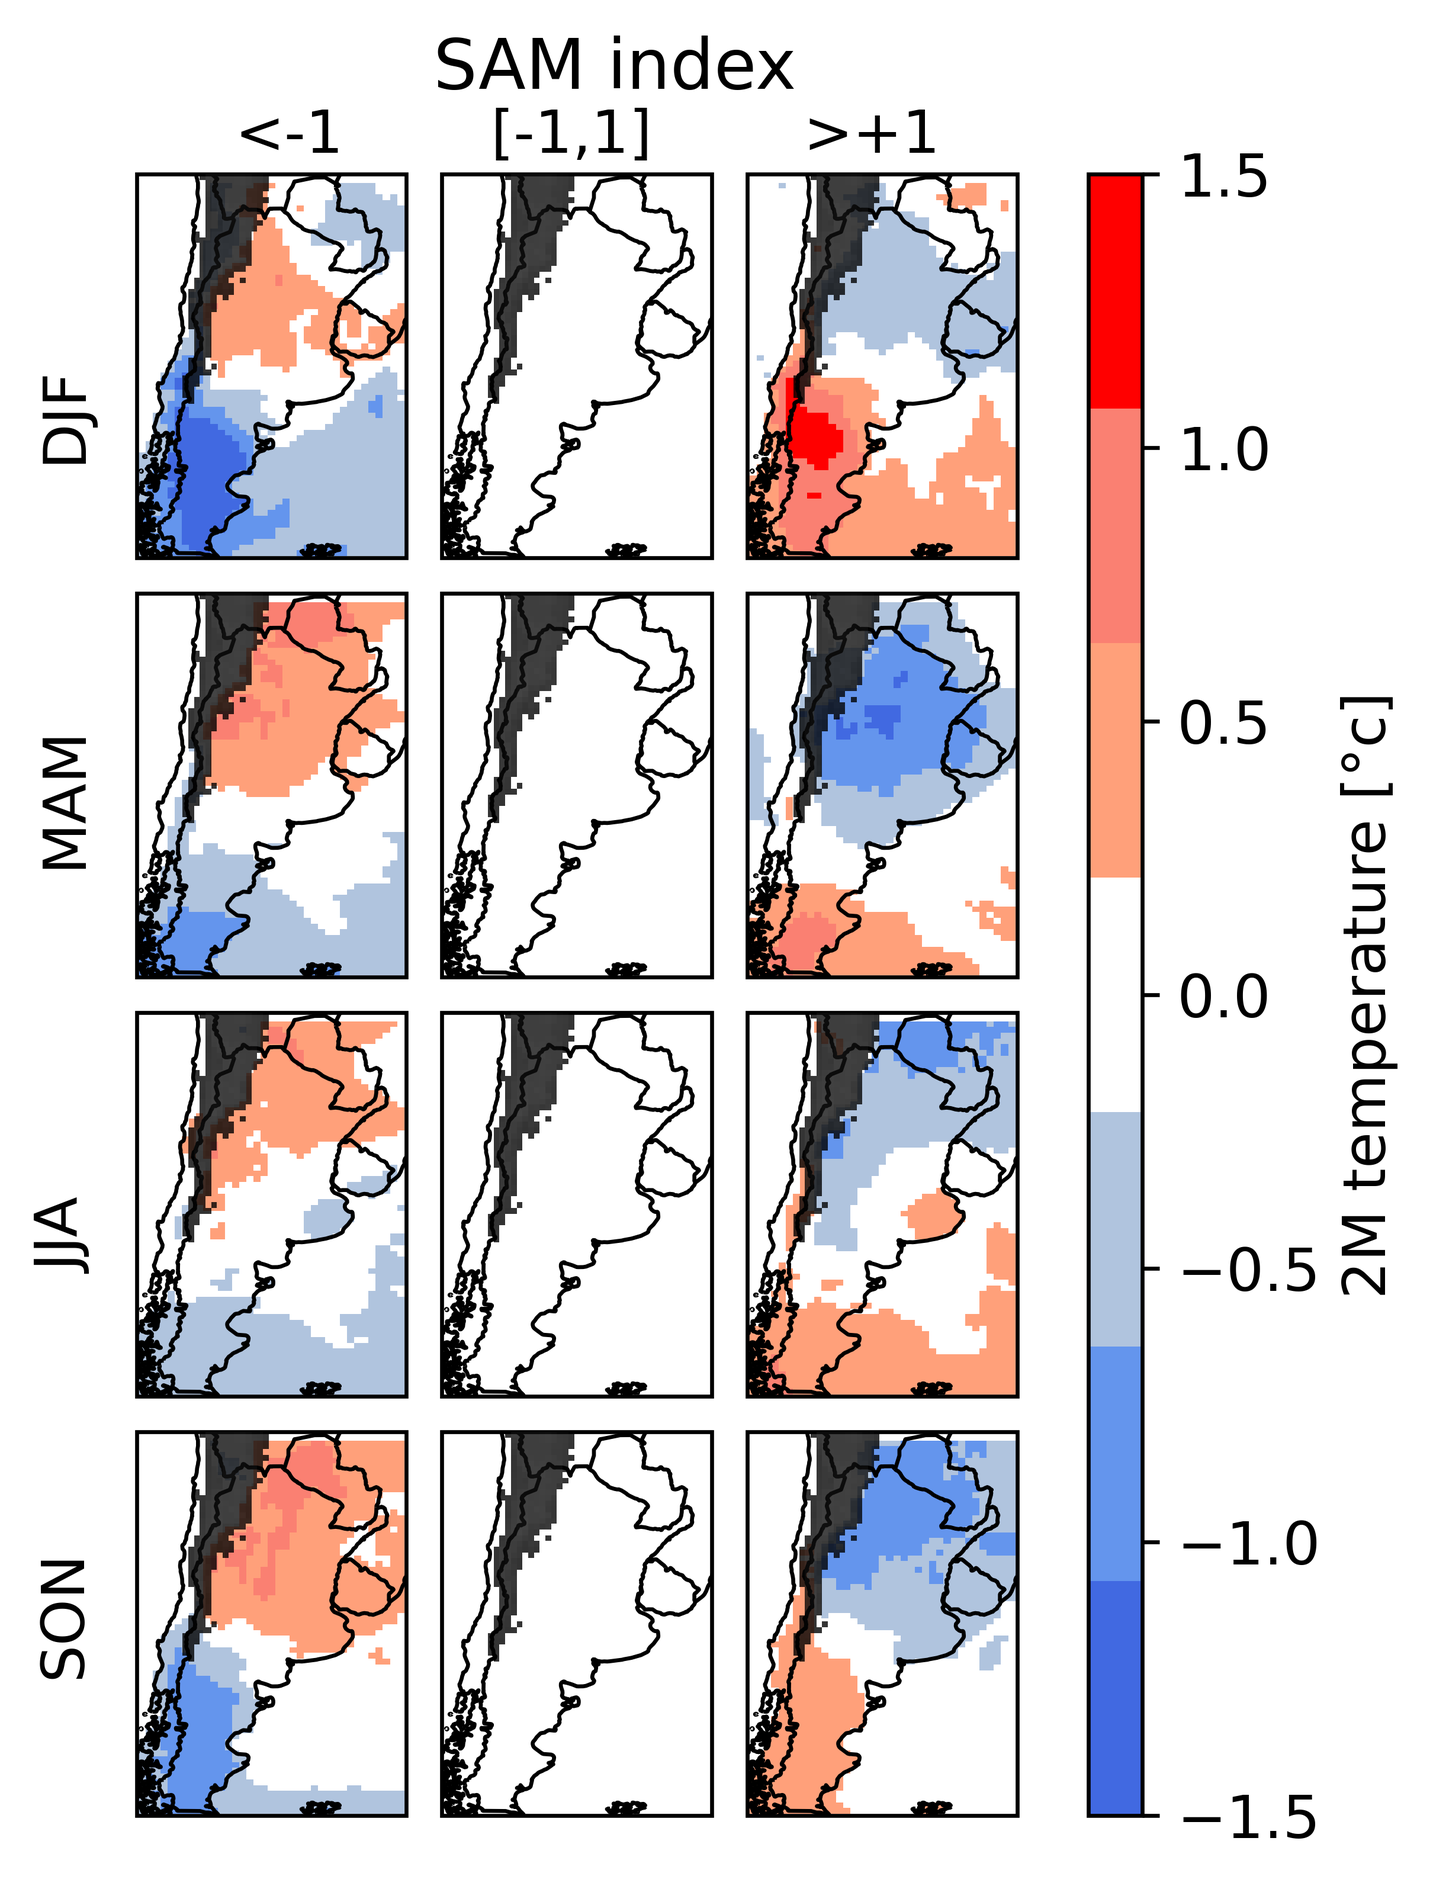
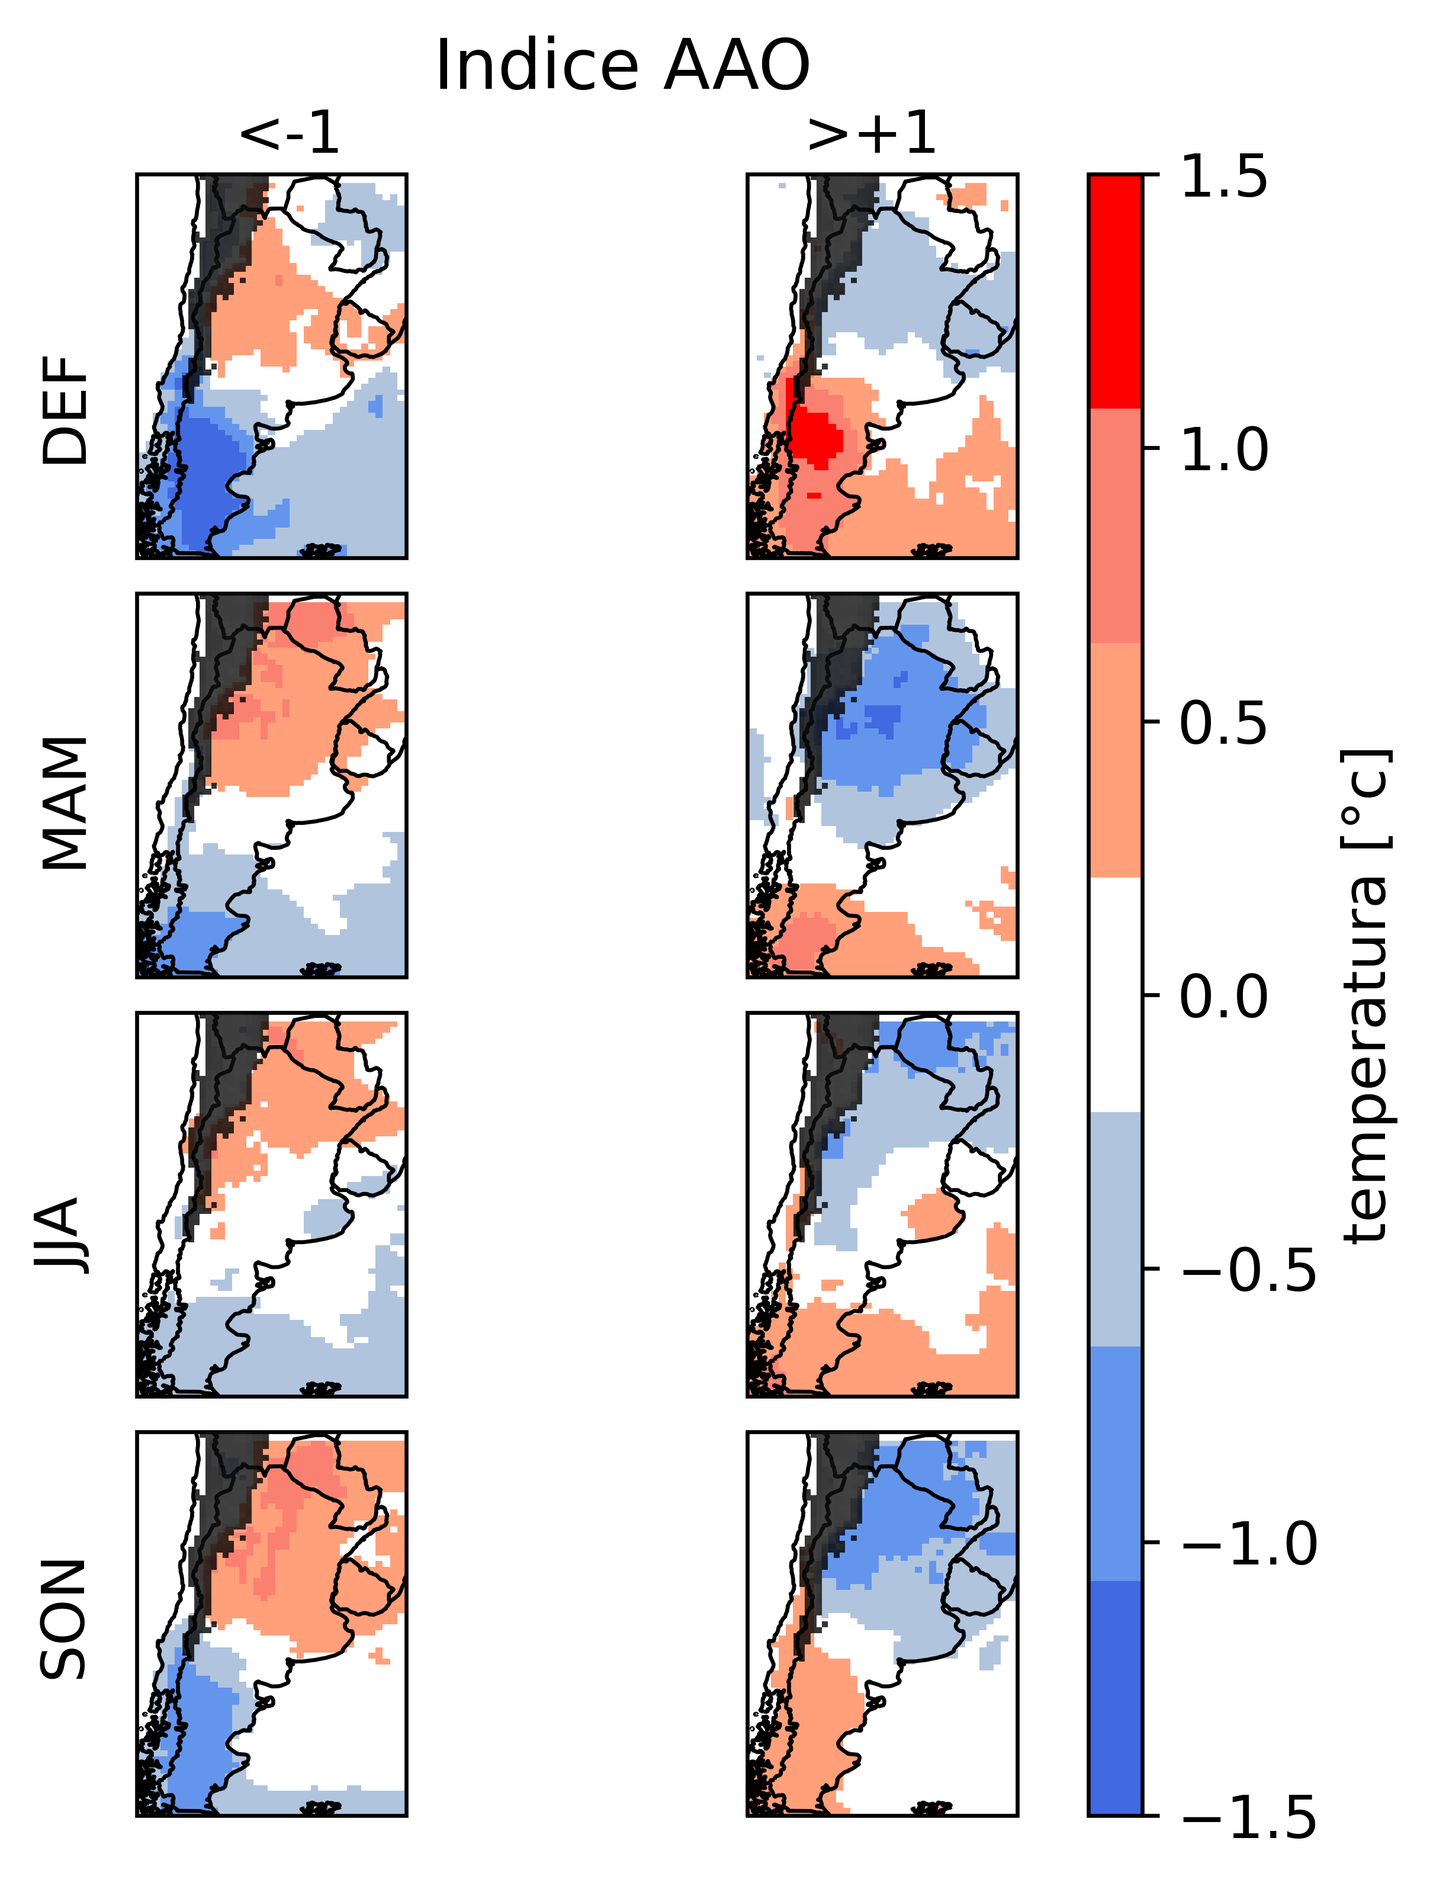
20/11

diff --git a/python/num_casos.py b/python/num_casos.py
@@ -1,0 +1,195 @@
+import numpy as N
+import matplotlib.pyplot as plt
+from datetime import datetime
+import pandas as pd
+from scipy.signal import detrend
+
+#################################
+#######VIENTO####################
+#################################
+
+Vuru = pd.read_csv('/home/emi/Documents/MJO/datos/series viento-sol/uru-vie-agrup.csv', header=None, delimiter=',', na_values='-99')
+Varg = pd.read_csv('/home/emi/Documents/MJO/datos/series viento-sol/arg-vie-agrup.csv', header=None, delimiter=',', na_values='-99')
+Vchi = pd.read_csv('/home/emi/Documents/MJO/datos/series viento-sol/chi-vie-agrup.csv', header=None, delimiter=',', na_values='-99')
+
+Vuru_cruda = pd.read_csv('/home/emi/Documents/MJO/datos/series viento-sol/uru-vie.txt', header=None, delimiter=';', na_values='-99')
+Varg_cruda = pd.read_csv('/home/emi/Documents/MJO/datos/series viento-sol/arg-vie.txt', header=None, delimiter=';', na_values='-99')
+Vchi_cruda = pd.read_csv('/home/emi/Documents/MJO/datos/series viento-sol/chi-vie.txt', header=None, delimiter=';', na_values='-99')
+
+Vmad = pd.read_csv('/home/emi/Documents/MJO/datos/mjo/WH.txt', header=None, delimiter=',', na_values='-99') ### year, month, day, day of week, RMM1, RMM2, phase, amplitude
+fmo = pd.read_csv('/home/emi/Documents/MJO/datos/mjo/filtered.txt', header=None, delimiter=',', na_values='-99') ### year, month, day, day of week, RMM1, RMM2, phase, amplitude
+
+series = pd.DataFrame()
+# cargamos mes, para despues filtrar por estacion
+series[0] = Vmad[1]
+# cargamos fase
+series[1] = Vmad[6]
+# cargamos dia de la semana, para cuando trabajemos con demanda
+series[2] = Vmad[3]
+#  cargamos amplitud, para quedarnos con MJO activas
+series[3] = Vmad[7]
+# series uruguay argentina chile
+series[4] = Vuru[1]
+series[5] = Varg[1]
+series[6] = Vchi[1]
+series[7] = fmo[7]
+
+
+# nos quedamos con MJO activos, esto es cuando la amplitud WH es >= 1
+seriesWH = series.loc[series[3] > 1]
+
+# VERANO
+veranoWH = seriesWH.loc[(seriesWH[0] == 1) | (seriesWH[0] == 2) | (seriesWH[0] == 12)]
+Vf1v = veranoWH.loc[veranoWH[1] == 1]
+Vf2v = veranoWH.loc[veranoWH[1] == 2]
+Vf3v = veranoWH.loc[veranoWH[1] == 3]
+Vf4v = veranoWH.loc[veranoWH[1] == 4]
+Vf5v = veranoWH.loc[veranoWH[1] == 5]
+Vf6v = veranoWH.loc[veranoWH[1] == 6]
+Vf7v = veranoWH.loc[veranoWH[1] == 7]
+Vf8v = veranoWH.loc[veranoWH[1] == 8]
+
+# OTOÑO
+otonoWH = seriesWH.loc[(seriesWH[0] == 3) | (seriesWH[0] == 4) | (seriesWH[0] == 5)]
+Vf1o = otonoWH.loc[otonoWH[1] == 1]
+Vf2o = otonoWH.loc[otonoWH[1] == 2]
+Vf3o = otonoWH.loc[otonoWH[1] == 3]
+Vf4o = otonoWH.loc[otonoWH[1] == 4]
+Vf5o = otonoWH.loc[otonoWH[1] == 5]
+Vf6o = otonoWH.loc[otonoWH[1] == 6]
+Vf7o = otonoWH.loc[otonoWH[1] == 7]
+Vf8o = otonoWH.loc[otonoWH[1] == 8]
+
+# INVIERNO
+inviernoWH = seriesWH.loc[(seriesWH[0] == 6) | (seriesWH[0] == 7) | (seriesWH[0] == 8)]
+Vf1i = inviernoWH.loc[inviernoWH[1] == 1]
+Vf2i = inviernoWH.loc[inviernoWH[1] == 2]
+Vf3i = inviernoWH.loc[inviernoWH[1] == 3]
+Vf4i = inviernoWH.loc[inviernoWH[1] == 4]
+Vf5i = inviernoWH.loc[inviernoWH[1] == 5]
+Vf6i = inviernoWH.loc[inviernoWH[1] == 6]
+Vf7i = inviernoWH.loc[inviernoWH[1] == 7]
+Vf8i = inviernoWH.loc[inviernoWH[1] == 8]
+
+# primavera
+primaveraWH = seriesWH.loc[(seriesWH[0] == 9) | (seriesWH[0] == 10) | (seriesWH[0] == 11)]
+Vf1p = primaveraWH.loc[primaveraWH[1] == 1]
+Vf2p = primaveraWH.loc[primaveraWH[1] == 2]
+Vf3p = primaveraWH.loc[primaveraWH[1] == 3]
+Vf4p = primaveraWH.loc[primaveraWH[1] == 4]
+Vf5p = primaveraWH.loc[primaveraWH[1] == 5]
+Vf6p = primaveraWH.loc[primaveraWH[1] == 6]
+Vf7p = primaveraWH.loc[primaveraWH[1] == 7]
+Vf8p = primaveraWH.loc[primaveraWH[1] == 8]
+
+verwh = [len(Vf1v),len(Vf2v),len(Vf3v),len(Vf4v),len(Vf5v),len(Vf6v),len(Vf7v),len(Vf8v)]
+otowh = [len(Vf1o),len(Vf2o),len(Vf3o),len(Vf4o),len(Vf5o),len(Vf6o),len(Vf7o),len(Vf8o)]
+invwh = [len(Vf1i),len(Vf2i),len(Vf3i),len(Vf4i),len(Vf5i),len(Vf6i),len(Vf7i),len(Vf8i)]
+priwh = [len(Vf1p),len(Vf2p),len(Vf3p),len(Vf4p),len(Vf5p),len(Vf6p),len(Vf7p),len(Vf8p)]
+
+# nos quedamos con MJO activos, esto es cuando la amplitud fmo es >= 1
+seriesFMO = series.loc[series[7] > 1]
+
+# VERANO
+veranoFMO = seriesFMO.loc[(seriesFMO[0] == 1) | (seriesFMO[0] == 2) | (seriesFMO[0] == 12)]
+V1v = veranoFMO.loc[veranoFMO[1] == 1]
+V2v = veranoFMO.loc[veranoFMO[1] == 2]
+V3v = veranoFMO.loc[veranoFMO[1] == 3]
+V4v = veranoFMO.loc[veranoFMO[1] == 4]
+V5v = veranoFMO.loc[veranoFMO[1] == 5]
+V6v = veranoFMO.loc[veranoFMO[1] == 6]
+V7v = veranoFMO.loc[veranoFMO[1] == 7]
+V8v = veranoFMO.loc[veranoFMO[1] == 8]
+
+# OTOÑO
+otonoFMO = seriesFMO.loc[(seriesFMO[0] == 3) | (seriesFMO[0] == 4) | (seriesFMO[0] == 5)]
+V1o = otonoFMO.loc[otonoFMO[1] == 1]
+V2o = otonoFMO.loc[otonoFMO[1] == 2]
+V3o = otonoFMO.loc[otonoFMO[1] == 3]
+V4o = otonoFMO.loc[otonoFMO[1] == 4]
+V5o = otonoFMO.loc[otonoFMO[1] == 5]
+V6o = otonoFMO.loc[otonoFMO[1] == 6]
+V7o = otonoFMO.loc[otonoFMO[1] == 7]
+V8o = otonoFMO.loc[otonoFMO[1] == 8]
+
+# INVIERNO
+inviernoFMO = seriesFMO.loc[(seriesFMO[0] == 6) | (seriesFMO[0] == 7) | (seriesFMO[0] == 8)]
+V1i = inviernoFMO.loc[inviernoFMO[1] == 1]
+V2i = inviernoFMO.loc[inviernoFMO[1] == 2]
+V3i = inviernoFMO.loc[inviernoFMO[1] == 3]
+V4i = inviernoFMO.loc[inviernoFMO[1] == 4]
+V5i = inviernoFMO.loc[inviernoFMO[1] == 5]
+V6i = inviernoFMO.loc[inviernoFMO[1] == 6]
+V7i = inviernoFMO.loc[inviernoFMO[1] == 7]
+V8i = inviernoFMO.loc[inviernoFMO[1] == 8]
+
+# primavera
+primaveraFMO = seriesFMO.loc[(seriesFMO[0] == 9) | (seriesFMO[0] == 10) | (seriesFMO[0] == 11)]
+V1p = primaveraFMO.loc[primaveraFMO[1] == 1]
+V2p = primaveraFMO.loc[primaveraFMO[1] == 2]
+V3p = primaveraFMO.loc[primaveraFMO[1] == 3]
+V4p = primaveraFMO.loc[primaveraFMO[1] == 4]
+V5p = primaveraFMO.loc[primaveraFMO[1] == 5]
+V6p = primaveraFMO.loc[primaveraFMO[1] == 6]
+V7p = primaveraFMO.loc[primaveraFMO[1] == 7]
+V8p = primaveraFMO.loc[primaveraFMO[1] == 8]
+
+verfmo = [len(V1v),len(V2v),len(V3v),len(V4v),len(V5v),len(V6v),len(V7v),len(V8v)]
+otofmo = [len(V1o),len(V2o),len(V3o),len(V4o),len(V5o),len(V6o),len(V7o),len(V8o)]
+invfmo = [len(V1i),len(V2i),len(V3i),len(V4i),len(V5i),len(V6i),len(V7i),len(V8i)]
+prifmo = [len(V1p),len(V2p),len(V3p),len(V4p),len(V5p),len(V6p),len(V7p),len(V8p)]
+
+X = [1,2,3,4,5,6,7,8]
+
+fig, ((ax1,ax2,ax3,ax4),(ax5,ax6,ax7,ax8)) = plt.subplots(2, 4,figsize=(6.75,3), sharey= True, sharex=True)
+
+ax1.set_title('DJF  ', fontsize=13, weight='bold')
+ax1.bar(X, verwh, alpha = 1)
+ax1.tick_params(labelsize=14)
+ax1.set_yticks([100,200,300], ['100','200','300'])
+ax1.xaxis.set_tick_params(length=0)
+
+ax2.set_title('MAM  ', fontsize=13, weight='bold')
+ax2.bar(X, otowh, alpha = 1)
+ax2.tick_params(labelsize=14)
+ax2.xaxis.set_tick_params(length=0)
+ax2.yaxis.set_tick_params(length=0)
+
+ax3.set_title('JJA  ', fontsize=13, weight='bold')
+ax3.bar(X, invwh, alpha = 1)
+ax3.tick_params(labelsize=14)
+ax3.xaxis.set_tick_params(length=0)
+ax3.yaxis.set_tick_params(length=0)
+
+ax4.set_title('SON  ', fontsize=13, weight='bold')
+ax4.bar(X, priwh, alpha = 1)
+ax4.tick_params(labelsize=14)
+ax4.xaxis.set_tick_params(length=0)
+ax4.yaxis.set_tick_params(length=0)
+
+ax5.bar(X, verfmo, alpha = 1)
+ax5.tick_params(labelsize=14)
+ax5.set_xticks([1,2,3,4,5,6,7,8], ['1','2','3','4','5','6','7','8'])
+ax5.set_yticks([100,200,300], ['100','200','300'])
+
+ax6.bar(X, otofmo, alpha = 1)
+ax6.tick_params(labelsize=14)
+ax6.set_xticks([1,2,3,4,5,6,7,8], ['1','2','3','4','5','6','7','8'])
+ax6.yaxis.set_tick_params(length=0)
+
+ax7.bar(X, invfmo, alpha = 1)
+ax7.tick_params(labelsize=14)
+ax7.set_xticks([1,2,3,4,5,6,7,8], ['1','2','3','4','5','6','7','8'])
+ax7.yaxis.set_tick_params(length=0)
+
+ax8.bar(X, prifmo, alpha = 1)
+ax8.tick_params(labelsize=14)
+ax8.set_xticks([1,2,3,4,5,6,7,8], ['1','2','3','4','5','6','7','8'])
+ax8.yaxis.set_tick_params(length=0)
+
+fig.text(0.01, 0.42, '# cases', fontsize=14, rotation='vertical')
+fig.text(0.91, 0.62, 'W&H', fontsize=14, rotation='vertical')
+fig.text(0.91, 0.24, 'FMO', fontsize=14, rotation='vertical')
+fig.text(0.45, -0.05, 'MJO phase', fontsize=14)
+fig.subplots_adjust(wspace=0.08,hspace=0.08)
+plt.savefig('/home/emi/Dropbox/DTEC/MJO/imagenes/casos.png',bbox_inches="tight", dpi=600)

diff --git a/merra_aao/mapas_aao_t_2.py b/merra_aao/mapas_aao_t_2.py
@@ -1,0 +1,104 @@
+import numpy as np
+import matplotlib.pyplot as plt
+import pandas as pd
+import cartopy.crs as ccrs
+from cartopy.mpl.geoaxes import GeoAxes
+import cartopy.feature as feature
+from mpl_toolkits.axes_grid1 import AxesGrid
+import numpy.ma as ma
+import xarray as xr
+import matplotlib as mpl
+from netCDF4 import Dataset
+
+
+elevat = '/home/emi/Documents/vientohidro2/datos/elev.0.5-deg.nc'
+archivo8 = Dataset(elevat, mode ='r')
+lons_ele = archivo8.variables['lon'][:]
+lats_ele = archivo8.variables['lat'][:]
+lons_ele = lons_ele - 180
+elev = archivo8.variables['data'][:]
+elev = ma.masked_where(elev < 1500, elev)
+
+########   uso AxesGrid  (rompe los huevos con el axes_class)
+# ~ projection = ccrs.PlateCarree()
+# ~ axes_class = (GeoAxes,
+                    # ~ dict(projection=projection))
+# ~ fig = plt.figure(1,(8,6))
+# ~ axes = AxesGrid(fig, 111, axes_class=axes_class,
+                    # ~ nrows_ncols=(4, 3),
+                    # ~ axes_pad=0.1,
+                    # ~ cbar_location='right',
+                    # ~ cbar_mode='single',
+                    # ~ cbar_pad=0.2,
+                    # ~ cbar_size='5%',
+                    # ~ share_all=True,
+                    # ~ label_mode='keep')
+
+ds = xr.open_dataset('data/T2M_composite_aao.nc')
+ds1 = xr.open_dataset('data/SLP_composite_aao.nc')
+
+cmap = (mpl.colors.ListedColormap(['royalblue', 'cornflowerblue', 'lightsteelblue', 'white','lightsalmon' , 'salmon' ,'red' ])
+        .with_extremes(over='darkred', under='darkblue'))
+bounds = [1.5, 1, 0.5, 0.0, 0.5, 1, 1.5]
+norm = mpl.colors.BoundaryNorm(bounds, cmap.N)
+
+fig, ((ax1,ax2,ax3,ax4),(ax5,ax6,ax7,ax8)) = plt.subplots(2, 4, figsize=(6,4), subplot_kw={'projection': ccrs.PlateCarree()})
+
+im = ax1.pcolormesh(ds['lon'].data, ds['lat'].data, ds['T2M2DJF'].data, cmap = cmap, vmin= -1.5, vmax=1.5 , transform=ccrs.PlateCarree())
+ax1.add_feature(feature.BORDERS,linewidth=1.1)
+ax1.add_feature(feature.COASTLINE,linewidth=1.1)
+ax1.set_title('DEF', fontsize=12)
+
+im = ax2.pcolormesh(ds['lon'].data, ds['lat'].data, ds['T2M2MAM'].data, cmap = cmap, vmin= -1.5, vmax=1.5 , transform=ccrs.PlateCarree())
+ax2.add_feature(feature.BORDERS,linewidth=1.1)
+ax2.add_feature(feature.COASTLINE,linewidth=1.1)
+ax2.set_title('MAM', fontsize=12)
+
+im = ax3.pcolormesh(ds['lon'].data, ds['lat'].data, ds['T2M2JJA'].data, cmap = cmap, vmin= -1.5, vmax=1.5 , transform=ccrs.PlateCarree())
+ax3.add_feature(feature.BORDERS,linewidth=1.1)
+ax3.add_feature(feature.COASTLINE,linewidth=1.1)
+ax3.set_title('JJA', fontsize=12)
+
+im = ax4.pcolormesh(ds['lon'].data, ds['lat'].data, ds['T2M2SON'].data, cmap = cmap, vmin= -1.5, vmax=1.5 , transform=ccrs.PlateCarree())
+ax4.add_feature(feature.BORDERS,linewidth=1.1)
+ax4.add_feature(feature.COASTLINE,linewidth=1.1)
+ax4.set_title('SON', fontsize=12)
+
+im = ax5.pcolormesh(ds['lon'].data, ds['lat'].data, ds['T2M0DJF'].data, cmap = cmap, vmin= -1.5, vmax=1.5 , transform=ccrs.PlateCarree())
+ax5.add_feature(feature.BORDERS,linewidth=1.1)
+ax5.add_feature(feature.COASTLINE,linewidth=1.1)
+
+im = ax6.pcolormesh(ds['lon'].data, ds['lat'].data, ds['T2M0MAM'].data, cmap = cmap, vmin= -1.5, vmax=1.5 , transform=ccrs.PlateCarree())
+ax6.add_feature(feature.BORDERS,linewidth=1.1)
+ax6.add_feature(feature.COASTLINE,linewidth=1.1)
+
+im = ax7.pcolormesh(ds['lon'].data, ds['lat'].data, ds['T2M0JJA'].data, cmap = cmap, vmin= -1.5, vmax=1.5 , transform=ccrs.PlateCarree())
+ax7.add_feature(feature.BORDERS,linewidth=1.1)
+ax7.add_feature(feature.COASTLINE,linewidth=1.1)
+
+im = ax8.pcolormesh(ds['lon'].data, ds['lat'].data, ds['T2M0SON'].data, cmap = cmap, vmin= -1.5, vmax=1.5 , transform=ccrs.PlateCarree())
+ax8.add_feature(feature.BORDERS,linewidth=1.1)
+ax8.add_feature(feature.COASTLINE,linewidth=1.1)
+
+
+cb_ax = fig.add_axes([0.92, 0.1, 0.04, 0.8])
+# ~ cb_ax = fig.add_axes([0.6, 0.1, 0.25, 0.8])
+
+cbar = fig.colorbar(im, cax=cb_ax)
+cbar.set_label('temperatura [°c]', fontsize = 12)
+# ~ cb = axes.cbar_axes.colorbar(im)
+# ~ cb.set_label('temperatura [°c]', fontsize = 12)
+cbar.ax.tick_params(labelsize=12) 
+
+# ~ fig.text(0.3, 0.75, 'DEF', fontsize = 12, rotation='vertical')
+# ~ fig.text(0.3, 0.56, 'MAM', fontsize = 12, rotation='vertical')
+# ~ fig.text(0.3, 0.37, 'JJA', fontsize = 12, rotation='vertical')
+# ~ fig.text(0.3, 0.18, 'SON', fontsize = 12, rotation='vertical')
+
+fig.text(0.07, 0.27, '<-1', fontsize=12)
+fig.text(0.06, 0.67, '>+1', fontsize=12)
+fig.text(0.02, 0.4, 'Indice AAO []', fontsize=14, rotation='vertical')
+fig.subplots_adjust(hspace=0.1,wspace=0.1)
+
+plt.savefig('t3.png',bbox_inches="tight", dpi=300)
+# ~ plt.show()

diff --git a/python/paises_MJO4.py b/python/paises_MJO4.py
@@ -16,7 +16,8 @@ Vuru_cruda = pd.read_csv('/home/emi/Documents/MJO/datos/series viento-sol/uru-vi
 Varg_cruda = pd.read_csv('/home/emi/Documents/MJO/datos/series viento-sol/arg-vie.txt', header=None, delimiter=';', na_values='-99')
 Vchi_cruda = pd.read_csv('/home/emi/Documents/MJO/datos/series viento-sol/chi-vie.txt', header=None, delimiter=';', na_values='-99')
 
-Vmad = pd.read_csv('/home/emi/Documents/MJO/datos/mjo/WH.txt', header=None, delimiter=',', na_values='-99') ### year, month, day, day of week, RMM1, RMM2, phase, amplitude
+# ~ Vmad = pd.read_csv('/home/emi/Documents/MJO/datos/mjo/WH.txt', header=None, delimiter=',', na_values='-99') ### year, month, day, day of week, RMM1, RMM2, phase, amplitude
+Vmad = pd.read_csv('/home/emi/Documents/MJO/datos/mjo/filtered.txt', header=None, delimiter=',', na_values='-99') ### year, month, day, day of week, RMM1, RMM2, phase, amplitude
 
 series = pd.DataFrame()
 # cargamos mes, para despues filtrar por estacion
@@ -232,7 +233,7 @@ fig.text(0.05, 0.42, 'variation [%]', fontsize=14, rotation='vertical')
 fig.text(0.45, 0.05, 'MJO phase', fontsize=14)
 fig.subplots_adjust(wspace=0.2, hspace=0.08)
 fig.subplots_adjust(bottom=0.15)
-plt.savefig('/home/emi/Dropbox/DTEC/MJO/imagenes/paisesV.png',bbox_inches="tight", dpi=600)
+plt.savefig('/home/emi/Dropbox/DTEC/MJO/imagenes/paisesV-filt.png',bbox_inches="tight", dpi=600)
 
 #################################
 #######SOL####################
@@ -246,7 +247,8 @@ Suru_cruda = pd.read_csv('/home/emi/Documents/MJO/datos/series viento-sol/uru-so
 Sarg_cruda = pd.read_csv('/home/emi/Documents/MJO/datos/series viento-sol/arg-sol.txt', header=None, delimiter=';', na_values='-99')
 Schi_cruda = pd.read_csv('/home/emi/Documents/MJO/datos/series viento-sol/chi-sol.txt', header=None, delimiter=';', na_values='-99')
 
-mad = pd.read_csv('/home/emi/Documents/MJO/datos/mjo/WH.txt', header=None, delimiter=',', na_values='-99') ### year, month, day, day oSf week, RMM1, RMM2, phase, amplitude
+# ~ mad = pd.read_csv('/home/emi/Documents/MJO/datos/mjo/WH.txt', header=None, delimiter=',', na_values='-99') ### year, month, day, day oSf week, RMM1, RMM2, phase, amplitude
+mad = pd.read_csv('/home/emi/Documents/MJO/datos/mjo/filtered.txt', header=None, delimiter=',', na_values='-99') ### year, month, day, day oSf week, RMM1, RMM2, phase, amplitude
 
 series = pd.DataFrame()
 # cSargamos mes, para despues Sfiltrar por estacion
@@ -460,7 +462,7 @@ fig.text(0.05, 0.42, 'variation [%]', fontsize=14, rotation='vertical')
 fig.text(0.45, 0.05, 'MJO phase', fontsize=14)
 fig.subplots_adjust(wspace=0.2, hspace=0.08)
 fig.subplots_adjust(bottom=0.15)
-plt.savefig('/home/emi/Dropbox/DTEC/MJO/imagenes/paisesS.png',bbox_inches="tight", dpi=600)
+plt.savefig('/home/emi/Dropbox/DTEC/MJO/imagenes/paisesS-filt.png',bbox_inches="tight", dpi=600)
 
 
 #################################

diff --git a/merra_aao/mapas_aao_t.py b/merra_aao/mapas_aao_t.py
@@ -45,7 +45,13 @@ norm = mpl.colors.BoundaryNorm(bounds, cmap.N)
 for k, ax in enumerate(axes):
   i = k//3
   j = k%3
+    # ~ # Skip middle column (j == 1)
+  # ~ if j == 1:
+    # ~ ax.set_visible(False)  # Hide the middle column axes
+    # ~ continue
   trim = ('DJF', 'MAM', 'JJA', 'SON')[i]
+  # ~ phase = j if j < 1 else j - 1  # Adjust phase: 0 stays 0, 2 becomes 1
+
   phase = j
 
   field = 'T2M' +str(phase)+trim
@@ -62,18 +68,17 @@ for k, ax in enumerate(axes):
 
   
 cb = axes.cbar_axes[0].colorbar(im)
-cb.set_label('2M temperature [°c]', fontsize = 12)
+cb.set_label('temperatura [°c]', fontsize = 12)
 cb.ax.tick_params(labelsize=12) 
 
-fig.text(0.3, 0.75, 'DJF', fontsize = 12, rotation='vertical')
+fig.text(0.3, 0.75, 'DEF', fontsize = 12, rotation='vertical')
 fig.text(0.3, 0.56, 'MAM', fontsize = 12, rotation='vertical')
 fig.text(0.3, 0.37, 'JJA', fontsize = 12, rotation='vertical')
 fig.text(0.3, 0.18, 'SON', fontsize = 12, rotation='vertical')
 
 fig.text(0.37, 0.89, '<-1', fontsize=12)
-fig.text(0.46, 0.89, '[-1,1]', fontsize=12)
 fig.text(0.57, 0.89, '>+1', fontsize=12)
-fig.text(0.44, 0.92, 'SAM index', fontsize=14)
+fig.text(0.44, 0.92, 'Indice AAO', fontsize=14)
   
-plt.savefig('t.png',bbox_inches="tight", dpi=600)
+plt.savefig('t2.png',bbox_inches="tight", dpi=300)
 # ~ plt.show()

diff --git a/merra/mapas_mjo_T.py b/merra/mapas_mjo_T.py
@@ -69,7 +69,7 @@ for k, ax in enumerate(axes):
     #esto de acá me volvió loco insulté al cartopy
 
 cb = axes.cbar_axes[0].colorbar(im)
-cb.set_label('2M temperature [°c]', fontsize = 12)
+cb.set_label('temperatura [°c]', fontsize = 12)
 cb.ax.tick_params(labelsize=12) 
 
 # ~ cbar_ax = fig.add_axes(([0.92, 0.15, 0.02, 0.6]))  #a la derecha
@@ -77,7 +77,7 @@ cb.ax.tick_params(labelsize=12)
 # ~ cbar.set_label('Temperature [°c]', fontsize = 12)
 # ~ cbar.ax.tick_params(labelsize=12) 
 
-fig.text(0.42, 0.87, 'MJO phase', fontsize=14)
+fig.text(0.42, 0.87, 'fase MJO ', fontsize=14)
 fig.subplots_adjust(wspace=0.1, hspace = 0.1)
 plt.savefig('T2M.png',bbox_inches="tight", dpi=600)
 
